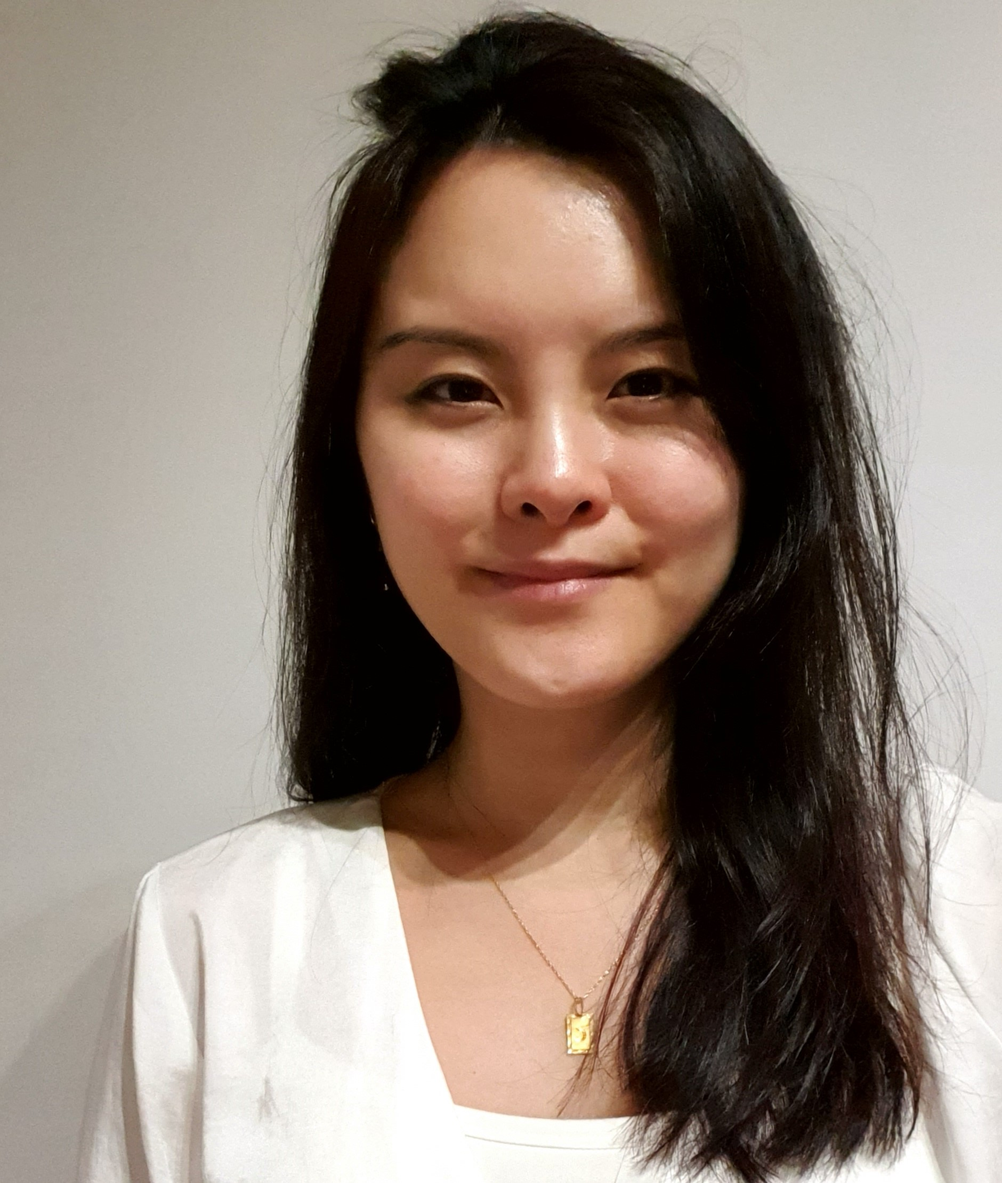
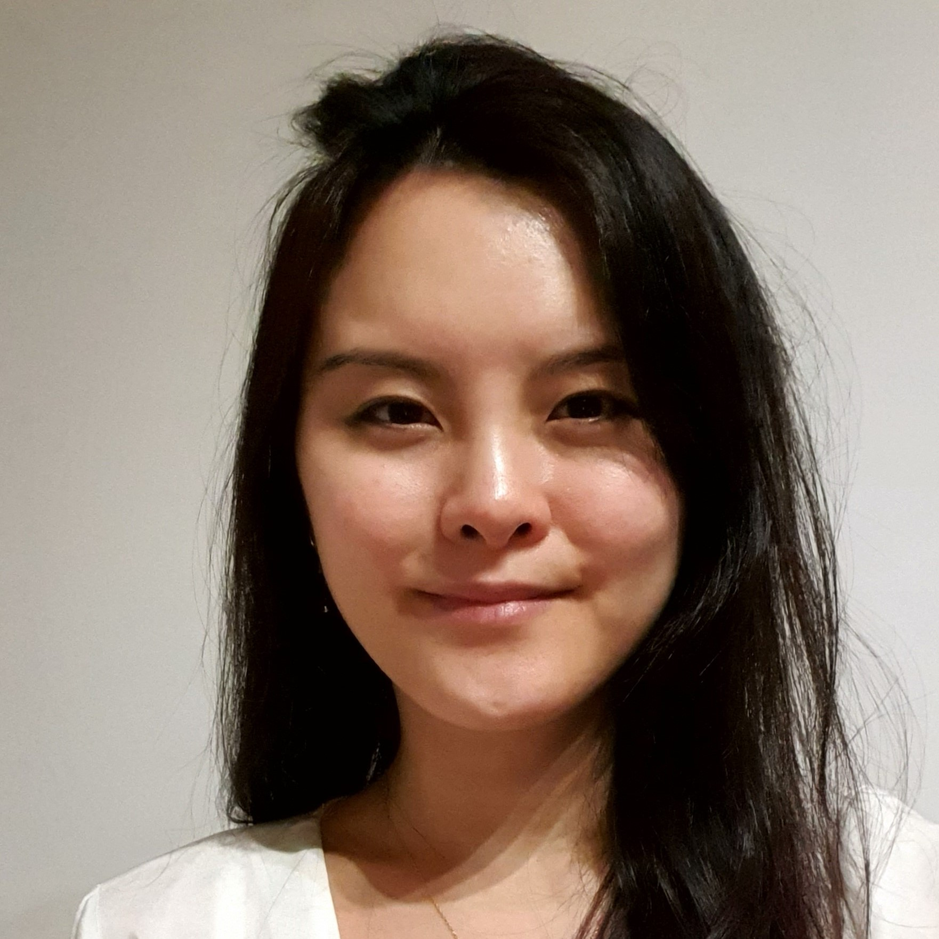
ofis

diff --git a/index.html b/index.html
@@ -15,22 +15,26 @@
       src="https://kit.fontawesome.com/469e0bb689.js"
       crossorigin="anonymous"
     ></script>
+    <link rel="preconnect" href="https://fonts.googleapis.com">
+<link rel="preconnect" href="https://fonts.gstatic.com" crossorigin>
+<link href="https://fonts.googleapis.com/css2?family=Source+Sans+Pro:wght@200;300;400&display=swap" rel="stylesheet">
+    <link rel="stylesheet" href="./index.css" />
     <title>My Portfolio</title>
   </head>
   <body>
     <header>
-      <nav class="navbar navbar-expand-lg bg-light">
+      <nav class="navbar navbar-expand-lg bg-gradient">
         <div class="container-fluid">
-          <a class="navbar-brand" href="#">
+          <div class="navbar-brand" href="#">
             <img
-              src=""
+              class="logo"
+              src="./assets/ar-prog_logo-300x262.png"
               alt=""
               width="30"
               height="24"
-              class="d-inline-block align-text-top"
             />
-            "Argentina Programa" #YoProgramo
-          </a>
+            <span>"Argentina Programa" #YoProgramo</span>
+          </div>
           <div class="text-end" id="navbarText">
             <a>
               <i class="fab fa-linkedin-in"></i>
@@ -41,71 +45,60 @@
             <a>
               <i class="fab fa-facebook"></i>
             </a>
-            <button type="button">Login</button>
+            <button class="loginButton" type="button">Login</button>
           </div>
         </div>
       </nav>
     </header>
 
     <main>
-      <div class="p-5 mb-4 bg-light rounded-3">
+      <div class="p-5 mb-4 bg-light rounded-3 banner">
         <div class="container-fluid py-5">
-          <h1 class="display-5 fw-bold">Custom jumbotron</h1>
-          <p class="col-md-8 fs-4">
-            Using a series of utilities, you can create this jumbotron, just
-            like the one in previous versions of Bootstrap. Check out the
-            examples below for how you can remix and restyle it to your liking.
-          </p>
-          <button class="btn btn-primary btn-lg" type="button">
-            Example button
-          </button>
+          <h1 class="display-5 fw-bold quote text-center">
+            <i class="fas fa-quote-left quotationMark"></i>
+              If you want to change your world, you need to start cultivating good habits.
+            <i class="fas fa-quote-right quotationMark"></i>
+          </h1>
         </div>
-      </div>
-      <div class="card mb-3" style="max-width: 540px">
-        <div class="row g-0">
-          <div class="col-md-4">
-            <img
-              src="./assets/me.jpg"
-              class="img-fluid rounded-start"
-              alt="..."
-            />
-          </div>
-          <div class="col-md-8">
-            <div class="card-body">
-              <h5 class="card-title">Card title</h5>
-              <p class="card-text">
-                This is a wider card with supporting text below as a natural
-                lead-in to additional content. This content is a little bit
-                longer.
-              </p>
-              <p class="card-text">
-                <small class="text-muted">Last updated 3 mins ago</small>
-              </p>
-            </div>
-          </div>
-        </div>
+        <img
+        src="./assets/me.jpg"
+        class="img-fluid"
+        alt="..."
+      />
       </div>
 
-      <div class="container text-center experience">
+      <div class="text-center profile lh-lg">
+  <div class="row lh-lg text-start profileDesc">
+    <div class="col-4 fs-5">
+      Cristina Elisabet Shim
+    </div>
+    <div class="col-8 fs-6">
+      I'm from Buenos Aires, Argentina. I'm a React developer Jr and very passionate about technology, coding and learning new things.
+    </div>
+  </div>
+</div>
+
+      <div class="text-center experience lh-lg">
         <div class="row text-start">
-            <div class="col-12">Experience</div>
+            <div class="col-12 fs-4 fw-semibold experienceTitle">Experience</div>
         </div>
-  <div class="row">
-    <div class="col-4">
+  <div class="row lh-lg text-start experienceDesc">
+    <div class="col-4 fs-5">
       AYPOO
     </div>
-    <div class="col-8">
+    <div class="col-8 fs-6">
       I worked as a...
     </div>
   </div>
-  <div class="row">
-    <div class="col-4">
+  <div class="row lh-lg text-start experienceDesc2">
+    <div class="col-4 fs-5">
       Wordpress Developer
     </div>
-    <div class="col-8">
+    <div class="col-8 fs-6">
       I build...
     </div>
   </div>
+</div>
 
       <div class="container text-center education">
         <div class="row text-start">
@@ -127,6 +120,7 @@
       I build...
     </div>
   </div>
+</div>
 
     </main>
 

diff --git a/index.css b/index.css
@@ -1,0 +1,106 @@
+* {
+    margin: 0;
+    padding: 0;
+    border-style: border-box;
+    font-family: 'Source Sans Pro', sans-serif;
+}
+
+nav{
+    background-color: var(--bs-dark);  
+    color: rgb(235, 235, 235);
+}
+
+.container-fluid {
+    justify-content: center;
+    align-items: center;
+    padding: 5px 20px;
+}
+
+.container-fluid a{ 
+    font-size: 30px; 
+    color: rgb(235, 235, 235);
+    padding: 8px;
+}
+
+.logo{
+    margin-right: 10px;
+}
+
+.banner {
+    position: relative;
+    height: 30rem;
+    display: flex;
+    align-items: center;
+}
+
+.banner img {
+    position: absolute;
+    width: 15%;
+    z-index: 1;
+    border-radius: 50%;
+    margin-left: 2rem;
+    margin-top: 30rem;
+}
+
+.navbar-brand span{
+    font-size: 20px;
+    color: rgb(235, 235, 235);
+}
+
+.loginButton {
+    font-size: 12px;
+    font-weight: 700;
+    border: 2px solid rgb(235, 235, 235);
+    border-radius: 10px;
+    margin: 0 0 0 15px;
+    background-color: transparent;
+    color:rgb(235, 235, 235);
+    text-transform: uppercase;
+    padding: 5px 15px;
+}
+
+.loginButton:hover {
+    color: #fff;
+    border: 2px solid #fff;
+}
+
+#navbarText {
+    display: flex;
+    justify-content: center;
+    align-items: center;
+}
+
+.quotationMark {
+    font-size: 30px;
+    color: #ffc3cb;
+}
+
+.quote {
+    color: #777;
+}
+
+.experience {
+    padding: 2rem 0;
+}
+
+.profileDesc {
+    margin-top: 7rem; 
+    padding: 0.5rem 5rem;
+}
+
+.experienceTitle {
+    padding: 0.5rem 5rem;
+    background-color: #ffc3cb;
+    color:rgb(71, 71, 71);
+    text-transform: uppercase;
+}
+
+.experienceDesc {
+    padding: 0.5rem 5rem;
+    background-color: #ffeef0;
+}
+
+.experienceDesc2 {
+    padding: 0.5rem 5rem;
+    background-color: #ffdde0;
+}
